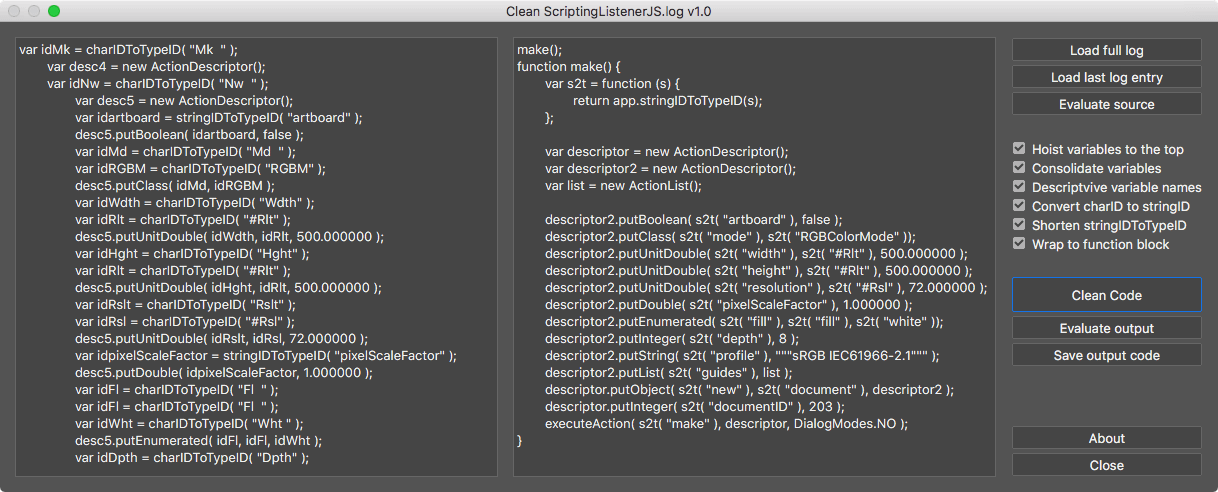
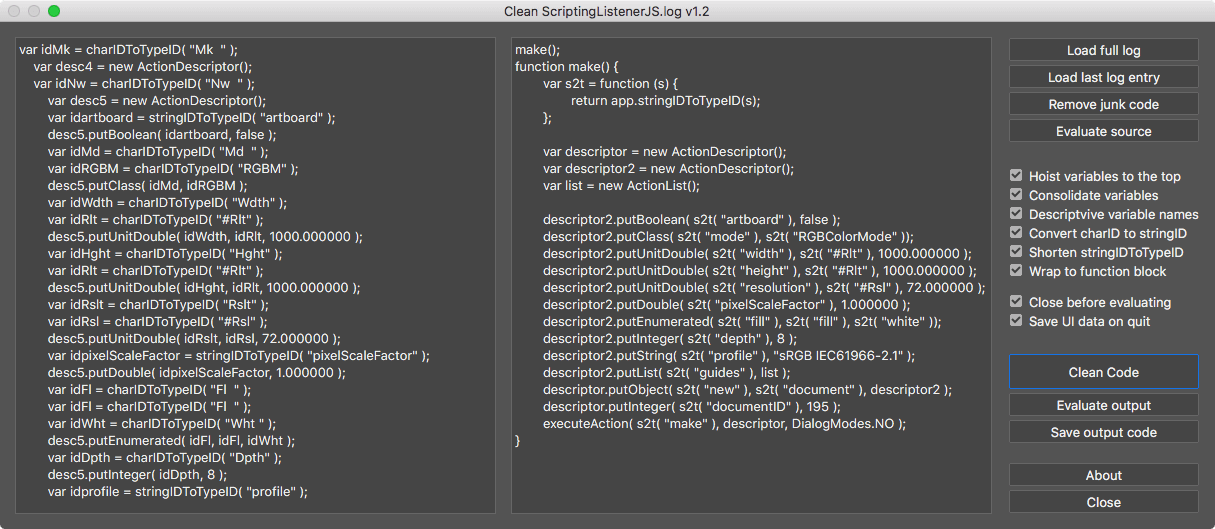
Bumps to version 1.2

Changed region(s): [[0.0, 0.0, 1.0, 0.9451], [0.8831, 0.8841, 0.944, 0.9756], [0.4263, 0.2134, 0.4568, 0.2439]]

diff --git a/Clean SL.jsx b/Clean SL.jsx
@@ -20,8 +20,10 @@
 		- Consolidate variables
 		- Give descriptive variable names
 		- Convert charID to stringID for better readability
-		- Replace stringIDToTypeID() to s2t() function
-		- Wrap to function block.
+		- Replace stringIDToTypeID() with s2t() function
+		- Wrap to function block
+		- Close Clean SL window before evaluating code
+		- Save UI data on script quit.
 
 	Released as open-source under the MIT license:
 		The MIT License (MIT)
@@ -51,7 +53,7 @@
 	var script = {
 		name: "Clean ScriptingListenerJS.log",
 		nameShort: "Clean SL",
-		version: "1.2-beta.2",
+		version: "1.2",
 		developer: {
 			name: File.decode("Tomas%20%C5%A0ink%C5%ABnas"), // Tomas Šinkūnas
 			url: "http://www.rendertom.com"
@@ -60,7 +62,7 @@
 			return this.nameShort + " v" + this.version + "\n" + "Photoshop utility tool to clean " +
 				"up ScriptingListenerJS log file. Script performs multiple actions such as cleaning-up " +
 				"variable names and hoisting them to the top, wraps code block into function, " +
-				"converts charID to string ID for better readability and such. \n\n" +
+				"converts charID to string ID and such.\n\n" +
 				"Resulting code is clean and maintains better readability.\n\n" +
 				"Developed by " + this.developer.name + "\n" + this.developer.url;
 		}
@@ -608,7 +610,7 @@
 			}
 		};
 
-		var btnRemoveJunkCode = grpRightColumn.add("button", undefined, "Remove Junk Code");
+		var btnRemoveJunkCode = grpRightColumn.add("button", undefined, "Remove junk code");
 		btnRemoveJunkCode.helpTip = "\"Junk block\" is considered a log block that contains any of these:\n\n" + junkArray.join("\n");
 		btnRemoveJunkCode.onClick = function () {
 			var cleanCode = removeJunkCode(uiControlls.etInputText.text);
@@ -636,7 +638,7 @@
 		uiControlls.charIDToStringID = grpRightColumn.add("checkbox", undefined, "Convert charID to stringID");
 		uiControlls.charIDToStringID.helpTip = "Converts charID string value to stringID value\n!!! charID's are not aware of its context and are replaced by first match";
 		uiControlls.shortStringID = grpRightColumn.add("checkbox", undefined, "Shorten stringIDToTypeID");
-		uiControlls.shortStringID.helpTip = "Globally renames stringIDToTypeID() to s2t() function";
+		uiControlls.shortStringID.helpTip = "Globally renames stringIDToTypeID() with s2t() function";
 		uiControlls.wrapToFunction = grpRightColumn.add("checkbox", undefined, "Wrap to function block");
 		uiControlls.wrapToFunction.helpTip = "Wraps entire code block to function block";
 

diff --git a/README.md b/README.md
@@ -3,7 +3,7 @@
 # Clean SL #
 Clean SL (Clean ScriptingListenerJS.log) is a utility tool for Adobe Photoshop to clean up ScriptingListenerJS.log file. 
 
-Script performs multiple actions such as cleaning-up variable names and hoisting them to the top, wraps code block into function, converts charID to string ID for better readability and such. Resulting code is clean and maintains better readability.
+Script performs multiple actions such as cleaning-up variable names and hoisting them to the top, wraps code block into function, converts charID to string ID and such. Resulting code is clean and maintains better readability.
 
 ### Features: ###
 * Load entire ScriptingListenerJS.log content
@@ -16,58 +16,91 @@ Script performs multiple actions such as cleaning-up variable names and hoisting
 * Give descriptive variable names
 * Convert charID to stringID for better readability
 * Replace stringIDToTypeID() to s2t() function
-* Wrap to function block.
+* Wrap to function block
+* Close Clean SL window before evaluating code
+* Save UI data on script quit.
 
 ### Example: ###
 From this:
 ```javascript
-var idHStr = charIDToTypeID( "HStr" );
-    var desc21 = new ActionDescriptor();
-    var idpresetKind = stringIDToTypeID( "presetKind" );
-    var idpresetKindType = stringIDToTypeID( "presetKindType" );
-    var idpresetKindCustom = stringIDToTypeID( "presetKindCustom" );
-    desc21.putEnumerated( idpresetKind, idpresetKindType, idpresetKindCustom );
-    var idClrz = charIDToTypeID( "Clrz" );
-    desc21.putBoolean( idClrz, false );
-    var idAdjs = charIDToTypeID( "Adjs" );
-        var list1 = new ActionList();
-            var desc22 = new ActionDescriptor();
-            var idH = charIDToTypeID( "H   " );
-            desc22.putInteger( idH, 39 );
-            var idStrt = charIDToTypeID( "Strt" );
-            desc22.putInteger( idStrt, 23 );
-            var idLght = charIDToTypeID( "Lght" );
-            desc22.putInteger( idLght, -27 );
-        var idHsttwo = charIDToTypeID( "Hst2" );
-        list1.putObject( idHsttwo, desc22 );
-    desc21.putList( idAdjs, list1 );
-executeAction( idHStr, desc21, DialogModes.NO );
+var idMk = charIDToTypeID( "Mk  " );
+    var desc4 = new ActionDescriptor();
+    var idNw = charIDToTypeID( "Nw  " );
+        var desc5 = new ActionDescriptor();
+        var idartboard = stringIDToTypeID( "artboard" );
+        desc5.putBoolean( idartboard, false );
+        var idMd = charIDToTypeID( "Md  " );
+        var idRGBM = charIDToTypeID( "RGBM" );
+        desc5.putClass( idMd, idRGBM );
+        var idWdth = charIDToTypeID( "Wdth" );
+        var idRlt = charIDToTypeID( "#Rlt" );
+        desc5.putUnitDouble( idWdth, idRlt, 1000.000000 );
+        var idHght = charIDToTypeID( "Hght" );
+        var idRlt = charIDToTypeID( "#Rlt" );
+        desc5.putUnitDouble( idHght, idRlt, 1000.000000 );
+        var idRslt = charIDToTypeID( "Rslt" );
+        var idRsl = charIDToTypeID( "#Rsl" );
+        desc5.putUnitDouble( idRslt, idRsl, 72.000000 );
+        var idpixelScaleFactor = stringIDToTypeID( "pixelScaleFactor" );
+        desc5.putDouble( idpixelScaleFactor, 1.000000 );
+        var idFl = charIDToTypeID( "Fl  " );
+        var idFl = charIDToTypeID( "Fl  " );
+        var idWht = charIDToTypeID( "Wht " );
+        desc5.putEnumerated( idFl, idFl, idWht );
+        var idDpth = charIDToTypeID( "Dpth" );
+        desc5.putInteger( idDpth, 8 );
+        var idprofile = stringIDToTypeID( "profile" );
+        desc5.putString( idprofile, """sRGB IEC61966-2.1""" );
+        var idGdes = charIDToTypeID( "Gdes" );
+            var list1 = new ActionList();
+        desc5.putList( idGdes, list1 );
+    var idDcmn = charIDToTypeID( "Dcmn" );
+    desc4.putObject( idNw, idDcmn, desc5 );
+    var idDocI = charIDToTypeID( "DocI" );
+    desc4.putInteger( idDocI, 195 );
+executeAction( idMk, desc4, DialogModes.NO );
 ```
 
 To this:
 ```javascript
-hueSaturation();
-function hueSaturation() {
-    var s2t = function (s) {
-        return app.stringIDToTypeID(s);
-    };
+make();
+function make() {
+	var s2t = function (s) {
+		return app.stringIDToTypeID(s);
+	};
 
-    var descriptor = new ActionDescriptor();
-    var list = new ActionList();
-    var descriptor2 = new ActionDescriptor();
+	var descriptor = new ActionDescriptor();
+	var descriptor2 = new ActionDescriptor();
+	var list = new ActionList();
 
-    descriptor.putEnumerated( s2t( "presetKind" ), s2t( "presetKindType" ), s2t( "presetKindCustom" ));
-    descriptor.putBoolean( s2t( "colorize" ), false );
-    descriptor2.putInteger( s2t( "hue" ), 39 );
-    descriptor2.putInteger( s2t( "saturation" ), 23 );
-    descriptor2.putInteger( s2t( "lightness" ), -27 );
-    list.putObject( s2t( "hueSatAdjustmentV2" ), descriptor2 );
-    descriptor.putList( s2t( "adjustment" ), list );
-    executeAction( s2t( "hueSaturation" ), descriptor, DialogModes.NO );
+	descriptor2.putBoolean( s2t( "artboard" ), false );
+	descriptor2.putClass( s2t( "mode" ), s2t( "RGBColorMode" ));
+	descriptor2.putUnitDouble( s2t( "width" ), s2t( "#Rlt" ), 1000.000000 );
+	descriptor2.putUnitDouble( s2t( "height" ), s2t( "#Rlt" ), 1000.000000 );
+	descriptor2.putUnitDouble( s2t( "resolution" ), s2t( "#Rsl" ), 72.000000 );
+	descriptor2.putDouble( s2t( "pixelScaleFactor" ), 1.000000 );
+	descriptor2.putEnumerated( s2t( "fill" ), s2t( "fill" ), s2t( "white" ));
+	descriptor2.putInteger( s2t( "depth" ), 8 );
+	descriptor2.putString( s2t( "profile" ), "sRGB IEC61966-2.1" );
+	descriptor2.putList( s2t( "guides" ), list );
+	descriptor.putObject( s2t( "new" ), s2t( "document" ), descriptor2 );
+	descriptor.putInteger( s2t( "documentID" ), 195 );
+	executeAction( s2t( "make" ), descriptor, DialogModes.NO );
 }
 ```
 
 ### Change log: ###
+* v1.2 - 2017 09 10 :
+	* Adds option to remove Action Managers junk code
+	* Adds option to close Clean SL script before evaluating code
+	* Adds option to save UI data on script quit
+	* Fixes invalid function names
+	* Replaces three quotes with one quote
+	* Uses external JSON object to read/write UI data
+	* Saves output code as JSX instead of TXT
+	* Adds tooltips everywhere
+	* Removes start-up demo code
+	* Removes duplicate functions
 * v1.1 - 2017 09 08 - Increments function names when processing multiple logs
 * v1 - 2017 09 07 - Initial release
 
@@ -79,7 +112,7 @@ Clone or download this repository and place **Clean SJ.jsx** script to Photoshop
 Restart Photoshop to access **Clean JS** script from File -> Scripts
 
 ---------
-Developed by Tomas Šinkūnas
+Developed by Tomas Šinkūnas 
 www.rendertom.com
 ---------
 
